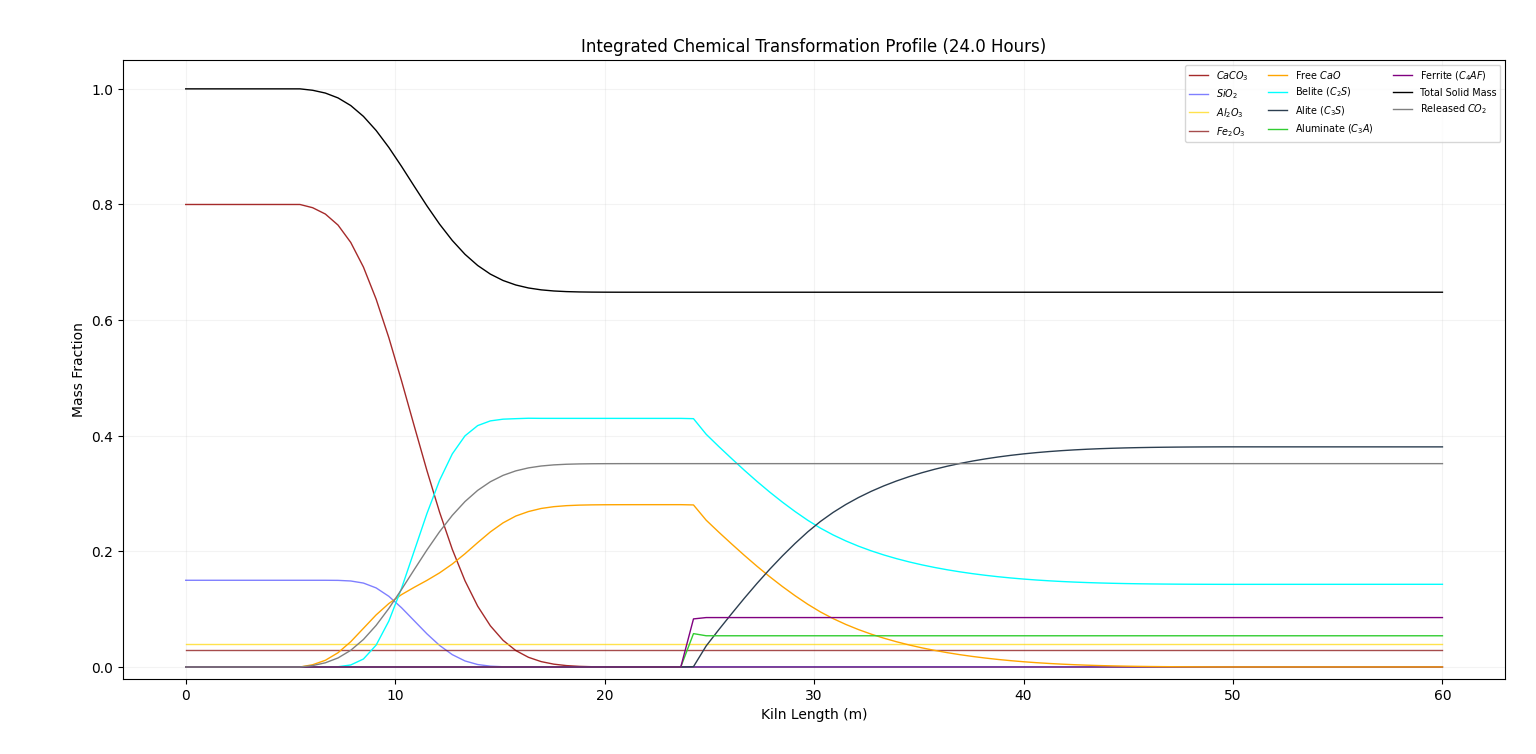
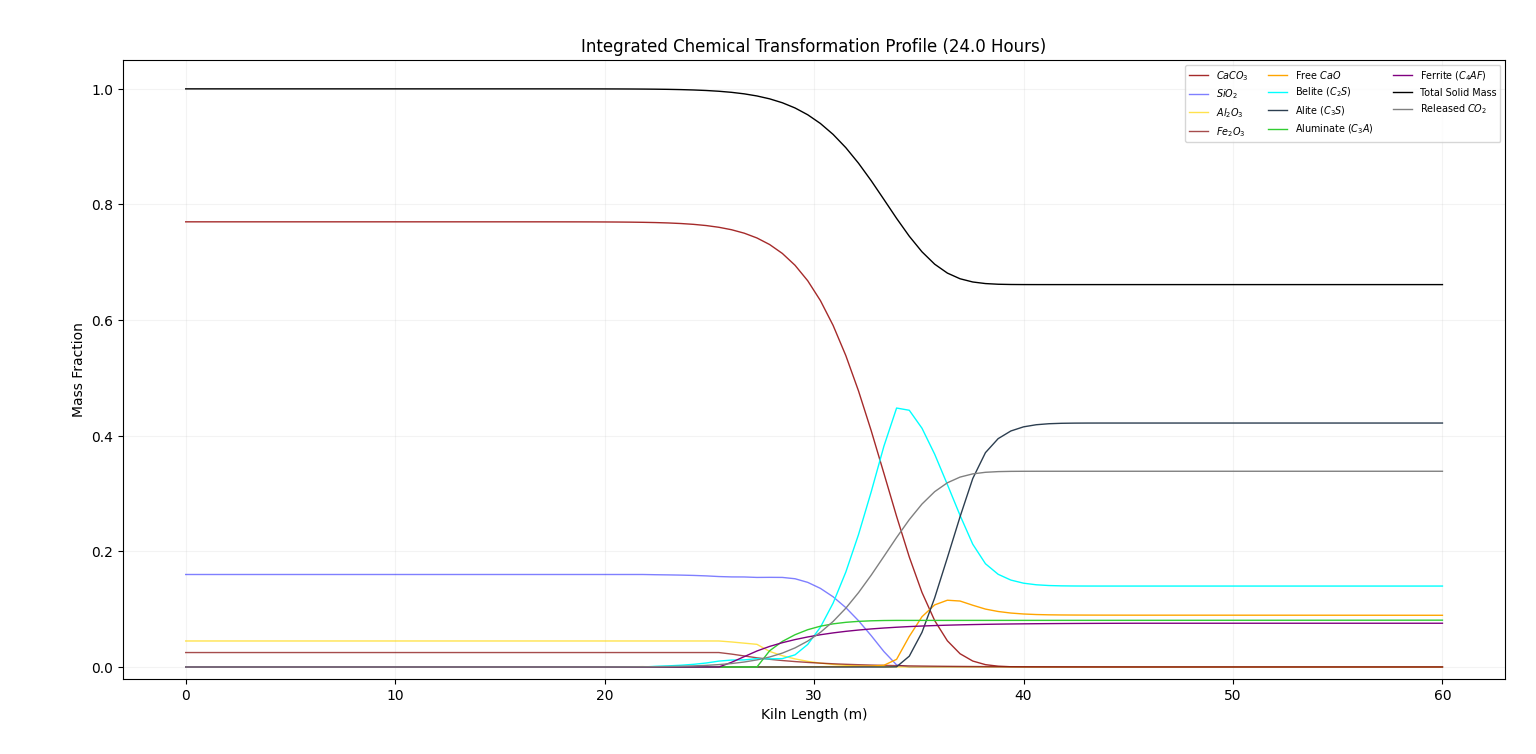
Thermic model update

diff --git a/core/solver.py b/core/solver.py
@@ -3,34 +3,44 @@ from numba import njit
 from core.state import KilnState
 
 @njit
-def _numba_step_core(N, Ts, Tg, Tw, X, m_CaO, m_SiO2, m_C2S, rho_g, dt, dz, v_s, m_dot_s, m_dot_g_inlet, 
+def _numba_step_core(N, Ts, Tg, Tw, X, m_CaO, m_SiO2, m_C2S, m_Al2O3, m_Fe2O3, m_C3A, m_C4AF,
+                     rho_g, dt, dz, v_s, m_dot_s, m_dot_g_inlet, 
                      cp_s, cp_g, dH_vec, area_gas, exchange_area_per_dz, 
                      damping, effective_thermal_mass, h_gs, sigma, eps_eff,
-                     k0_vec, Ea_vec, R_const, T_min_vec):
-    rates = np.zeros((3, N))
+                     k0_vec, Ea_vec, R_const, T_min_vec,
+                     k_flux_c3a, k_flux_c4af):
     
-    # 1. Reaksiyon Maskeleri
+    rates = np.zeros((5, N))
+    
+    # 1. Reaksiyon Maskeleri (Fiziksel alt sınırlar)
     mask_calc = (Ts >= T_min_vec[0]) & (X < 1.0)
-    # SiO2 ve CaO varsa Belit (C2S) oluşabilir
     mask_c2s  = (Ts >= T_min_vec[1]) & (m_CaO > 1e-4) & (m_SiO2 > 1e-4)
-    # C2S ve CaO varsa Alit (C3S) oluşabilir
     mask_c3s  = (Ts >= T_min_vec[2]) & (m_C2S > 0.01) & (m_CaO > 1e-4)
-
-    # 2. Kinetik Hızlar
+    
+    # 2. Hız Hesaplamaları
+    # Kalsinasyon
     k_calc = k0_vec[0] * np.exp(-Ea_vec[0] / (R_const * Ts))
-    rates[0, mask_calc] = np.minimum(k_calc[mask_calc] * (1.0 - X[mask_calc]), 0.05)
+    rates[0, mask_calc] = np.minimum(k_calc[mask_calc] * (1.0 - X[mask_calc]), 0.04)
 
+    # Belit oluşumu
     k_c2s = k0_vec[1] * np.exp(-Ea_vec[1] / (R_const * Ts))
-    rates[1, mask_c2s] = np.minimum(k_c2s[mask_c2s] * (m_CaO[mask_c2s]**2) * m_SiO2[mask_c2s], 0.005)
+    rates[1, mask_c2s] = k_c2s[mask_c2s] * m_CaO[mask_c2s] * m_SiO2[mask_c2s]
 
+    # Alit Dinamik Sönümleme (Damping)
+    # Belit %15'e yaklaştıkça Alit oluşum hızı asimptotik olarak yavaşlar.
+    # Bu, sistemi bir sayıya kilitlemek yerine yumuşak bir iniş sağlar.
+    belite_factor = np.clip((m_C2S - 0.14) / 0.06, 0.0, 1.0)
+    cao_factor = np.clip((m_CaO - 0.005) / 0.04, 0.0, 1.0)
+    
     k_c3s = k0_vec[2] * np.exp(-Ea_vec[2] / (R_const * Ts))
-    # Belit %5'in altına indikçe Alit oluşumu yavaşlar (Sayısal kararlılık için)
-    c2s_resistance = np.clip((m_C2S - 0.05) / (0.25 - 0.05), 0.0, 1.0)
-    rates[2, mask_c3s] = np.minimum(k_c3s[mask_c3s] * m_C2S[mask_c3s] * m_CaO[mask_c3s] * c2s_resistance[mask_c3s], 0.003)
+    rates[2, mask_c3s] = k_c3s[mask_c3s] * m_C2S[mask_c3s] * m_CaO[mask_c3s] * belite_factor[mask_c3s] * cao_factor[mask_c3s]
 
-    # 3. Gaz ve Enerji Dengesi
-    CO2_RATIO = 0.4397
-    m_dot_co2 = rates[0] * m_dot_s * CO2_RATIO
+    # Flux Fazları
+    rates[3, (Ts >= 1450.0) & (m_Al2O3 > 1e-4)] = k_flux_c3a * m_Al2O3[(Ts >= 1450.0) & (m_Al2O3 > 1e-4)]
+    rates[4, (Ts >= 1400.0) & (m_Fe2O3 > 1e-4)] = k_flux_c4af * m_Fe2O3[(Ts >= 1400.0) & (m_Fe2O3 > 1e-4)]
+
+    # 3. Termal ve Gaz Dinamiği
+    m_dot_co2 = rates[0] * m_dot_s * 0.4397
     m_dot_g_local = np.full(N, m_dot_g_inlet)
     acc = 0.0
     for i in range(N - 1, -1, -1):
@@ -39,12 +49,11 @@ def _numba_step_core(N, Ts, Tg, Tw, X, m_CaO, m_SiO2, m_C2S, rho_g, dt, dz, v_s,
 
     q_gs = h_gs * (Tg - Ts) * exchange_area_per_dz
     q_rad_gs = sigma * eps_eff * (Tg**4 - Ts**4) * exchange_area_per_dz
-    q_sw = 15.0 * (Ts - Tw) * exchange_area_per_dz
-    q_rxn = (rates[0] * dH_vec[0] + rates[1] * dH_vec[1] + rates[2] * dH_vec[2]) * m_dot_s
+    q_rxn = (rates[0]*dH_vec[0] + rates[1]*dH_vec[1] + rates[2]*dH_vec[2] + rates[3]*dH_vec[3] + rates[4]*dH_vec[4]) * m_dot_s
     
     dTs, dTg = np.zeros(N), np.zeros(N)
     dTs[1:] = (v_s * (Ts[:-1] - Ts[1:]) / dz)
-    dTs += (q_gs + q_rad_gs - q_sw - q_rxn) / (effective_thermal_mass * cp_s)
+    dTs += (q_gs + q_rad_gs - 15.0*(Ts-Tw)*exchange_area_per_dz - q_rxn) / (effective_thermal_mass * cp_s)
     dTs *= damping 
     
     v_g = m_dot_g_local / (np.maximum(0.1, rho_g) * area_gas)
@@ -63,7 +72,7 @@ class KilnSolver:
         nodes = int(self._safe_f(config['kiln']['nodes']))
         self.state = KilnState(nodes)
         self.dz = self._safe_f(config['kiln']['length']) / nodes
-        self.damping = 0.20 
+        self.damping = 0.16 
 
     def _safe_f(self, value):
         if isinstance(value, list): return float(value[0])
@@ -80,12 +89,11 @@ class KilnSolver:
         dt_v = float(dt)
         c0 = self.cfg['raw_meal_composition']
         
-        # Giriş Parametreleri
-        f_rate = fuel_rate if fuel_rate is not None else self._safe_f(self.cfg['gas'].get('fuel_rate', 16.0))
-        cur_fan = fan_rate if fan_rate is not None else self.cfg.get('fan_rate_current', 800.0)
-        self.cfg['gas']['temp_inlet'] = self._calculate_flame_temp(f_rate, cur_fan)
+        # Parametrelerin config'den çekilmesi
+        f_rate = fuel_rate if fuel_rate is not None else self._safe_f(self.cfg['gas'].get('fuel_rate', 16.5))
+        cur_fan = fan_rate if fan_rate is not None else self.cfg.get('fan_rate_current', 850.0)
         m_dot_g_inlet = self._safe_f(self.cfg['gas'].get('nominal_flow', 8.5)) * (cur_fan / 850.0)
-        h_gs = self._safe_f(self.cfg['gas'].get('h_gs', 400.0)) * ((cur_fan / 850.0)**0.4)
+        h_gs = self._safe_f(self.cfg['gas'].get('h_gs', 350.0)) * ((cur_fan / 850.0)**0.4)
         current_rpm = kiln_rpm if kiln_rpm is not None else self._safe_f(self.cfg['kiln'].get('rpm', 2.0))
         v_s = self.tra.calculate_solid_velocity(current_rpm)
         m_dot_s = feed_rate if feed_rate is not None else self._safe_f(self.cfg['material']['feed_rate'])
@@ -94,73 +102,71 @@ class KilnSolver:
         diameter = self._safe_f(self.cfg['kiln']['diameter'])
         area_gs_dz = diameter * self.dz * (self.tra.get_dynamic_filling_degree(current_rpm) / 0.10)
         area_gas = (np.pi * (diameter / 2)**2) * 0.90
-        eps_eff = (self._safe_f(self.cfg['gas'].get('emissivity_g', 0.3)) + 0.85) / 2.0
+        eps_eff = (self._safe_f(self.cfg['gas'].get('emissivity_g', 0.65)) + 0.85) / 2.0
 
-        # --- KRİTİK DEĞİŞİKLİK: ÖNCE TAŞINIM (SÜREKLİ BESLEME) ---
-        # Fırın boyunca malzemeyi kaydırıyoruz. Bu, her düğüme taze SiO2 girişi sağlar.
+        # Flux Katsayıları
+        k_c3a = self.cfg['kinetics'].get('pre_factor_c3a', 0.002)
+        k_c4af = self.cfg['kinetics'].get('pre_factor_c4af', 0.001)
+
+        # --- ADIM A: TAŞINIM ---
         flow_factor = min(1.0, v_s * dt_v / self.dz)
-        phases = ['m_SiO2', 'm_Al2O3', 'm_Fe2O3', 'm_CaO', 'm_C2S', 'm_C3S', 'm_C3A', 'm_C4AF', 'X']
-        for p in phases:
+        for p in ['m_SiO2', 'm_Al2O3', 'm_Fe2O3', 'm_CaO', 'm_C2S', 'm_C3S', 'm_C3A', 'm_C4AF', 'X']:
             arr = getattr(self.state, p)
             arr[1:] = (1 - flow_factor) * arr[1:] + flow_factor * arr[:-1]
-            
-            # FIRIN GİRİŞİ (Sınır Koşulu - Taze Hammadde)
             if p == 'm_SiO2': arr[0] = float(c0['SiO2'])
             elif p == 'm_Al2O3': arr[0] = float(c0['Al2O3'])
             elif p == 'm_Fe2O3': arr[0] = float(c0['Fe2O3'])
             elif p == 'X': arr[0] = 0.0
-            elif p == 'm_CaO': arr[0] = 0.0
             else: arr[0] = 0.0
 
-        self.state.update_gas_density()
-
-        # --- REAKSİYONLARIN HESAPLANMASI ---
+        # --- ADIM B: REAKSİYONLAR (NUMBA) ---
         dTs, dTg, rates = _numba_step_core(
             self.state.N, self.state.Ts, self.state.Tg, self.state.Tw,
             self.state.X, self.state.m_CaO, self.state.m_SiO2, self.state.m_C2S,
+            self.state.m_Al2O3, self.state.m_Fe2O3, self.state.m_C3A, self.state.m_C4AF,
             self.state.rho_g, dt_v, self.dz, v_s, m_dot_s, m_dot_g_inlet,
             self._safe_f(self.cfg['material']['cp_s']), self._safe_f(self.cfg['gas']['cp_g']),
-            np.array([self.kin.dH_calc, self.kin.dH_c2s, self.kin.dH_c3s]), 
+            np.array([self.kin.dH_calc, self.kin.dH_c2s, self.kin.dH_c3s, -125.0, -100.0]), 
             area_gas, area_gs_dz, self.damping, eff_mass, h_gs, 5.67e-8, eps_eff,
-            self.kin.k0, self.kin.Ea, self.kin.R, self.kin.T_min
+            self.kin.k0, self.kin.Ea, self.kin.R, self.kin.T_min,
+            k_c3a, k_c4af
         )
 
-        # --- DURUM GÜNCELLEME VE STOKİYOMETRİ ---
+        # --- ADIM C: KÜTLE DENGESİ (STOKİYOMETRİK KONTROL) ---
         self.state.X += rates[0] * dt_v
         self.state.Ts += dTs * dt_v
         self.state.Tg += dTg * dt_v
 
-        # SiO2 Tüketimi (Gelen miktar kadar harcanabilir)
-        sio2_needed = (rates[1] * dt_v) * 0.349
-        actual_sio2_cons = np.minimum(self.state.m_SiO2 - 1e-6, sio2_needed)
-        self.state.m_SiO2 -= actual_sio2_cons
+        # Flux Tüketimi
+        c3a_inc = np.minimum(rates[3] * dt_v, self.state.m_Al2O3 / 0.377)
+        c4af_inc = np.minimum(rates[4] * dt_v, self.state.m_Fe2O3 / 0.329)
+        self.state.m_C3A += c3a_inc
+        self.state.m_C4AF += c4af_inc
+        self.state.m_Al2O3 -= (c3a_inc * 0.377) + (c4af_inc * 0.210)
+        self.state.m_Fe2O3 -= (c4af_inc * 0.329)
         
-        # Belit Oluşumu (Tüketilen SiO2'ye orantılı)
-        c2s_formed = actual_sio2_cons / 0.349
-        actual_c3s_inc = rates[2] * dt_v
+        # Silikatlar
+        sio2_cons = np.minimum(rates[1] * dt_v * 0.349, self.state.m_SiO2 * 0.99)
+        self.state.m_SiO2 -= sio2_cons
+        c2s_from_sio2 = sio2_cons / 0.349
         
-        self.state.m_C3S += actual_c3s_inc
-        # Belit Değişimi = Oluşan - (Alit'e Dönüşen)
-        self.state.m_C2S += c2s_formed - (actual_c3s_inc * 0.754)
+        # Alit Dönüşümü (Fiziksel stok kısıtlı)
+        c3s_inc = rates[2] * dt_v
+        c3s_inc = np.minimum(c3s_inc, self.state.m_C2S * 0.4) 
+        c3s_inc = np.minimum(c3s_inc, self.state.m_CaO * 0.8)
         
-        # CaO Dengesi: Üretilen (Kalsinasyon) - Tüketilen (C2S ve C3S oluşumu)
-        cao_prod = rates[0] * dt_v * 0.5607
-        cao_cons = (c2s_formed * 0.651) + (actual_c3s_inc * 0.737)
-        self.state.m_CaO += (cao_prod - cao_cons)
+        self.state.m_C3S += c3s_inc
+        self.state.m_C2S += c2s_from_sio2 - (c3s_inc * 0.754)
+        
+        # CaO Dengesi (Kirecin fırın sonunda %1-2'ye inmesini sağlayan ana denklemler)
+        cao_gain = rates[0] * dt_v * 0.561
+        cao_loss = (c2s_from_sio2 * 0.651) + (c3s_inc * 0.246) + (c3a_inc * 0.623) + (c4af_inc * 0.461)
+        self.state.m_CaO += (cao_gain - cao_loss)
 
-        # Emniyet Sınırları
-        self.state.m_SiO2 = np.maximum(0.0001, self.state.m_SiO2)
-        self.state.m_CaO = np.maximum(1e-5, self.state.m_CaO)
-        self.state.m_C2S = np.maximum(0.0, self.state.m_C2S)
+        # Alt Sınır Guard'lar
+        for p in ['m_SiO2', 'm_Al2O3', 'm_Fe2O3', 'm_CaO', 'm_C2S', 'm_C3S', 'm_C3A', 'm_C4AF']:
+            setattr(self.state, p, np.maximum(1e-6, getattr(self.state, p)))
 
-        # Flux Fazlar (C3A ve C4AF)
-        sinter_mask = self.state.Ts > 1523.0
-        L = 3.0 * c0['Al2O3'] + 2.25 * c0['Fe2O3']
-        c4af_inc = np.minimum((c0['Fe2O3'] * 2.85 - self.state.m_C4AF), 0.05 * L) * dt_v
-        self.state.m_C4AF[sinter_mask] += c4af_inc[sinter_mask]
-        c3a_inc = np.minimum(((c0['Al2O3'] - (self.state.m_C4AF * 0.21)) * 2.45 - self.state.m_C3A), 0.08 * L) * dt_v
-        self.state.m_C3A[sinter_mask] += c3a_inc[sinter_mask]
-
-        self.state.total_mass = 1.0 - (self.state.X * c0['CaCO3'] * 0.4397)
+        self.state.total_mass = 1.0 - (np.minimum(self.state.X, 1.0) * float(c0['CaCO3']) * 0.4397)
         self.state.Ts[0] = self._safe_f(self.cfg['material']['temp_inlet'])
         self.state.Tg[-1] = self._safe_f(self.cfg['gas']['temp_inlet'])